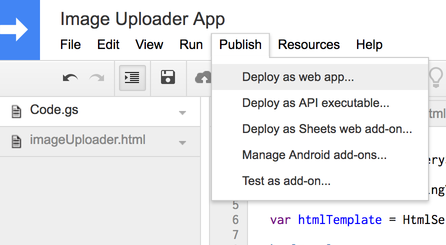
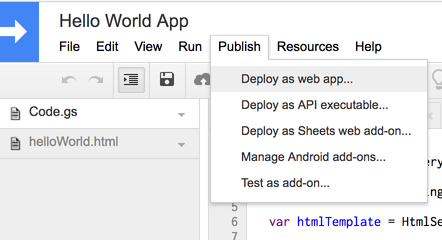
Review comment changes

diff --git a/_posts/2017-02-07-building-web-app-using-google-sheet.md b/_posts/2017-02-07-building-web-app-using-google-sheet.md
@@ -12,7 +12,8 @@ I am sure we all use and love Google Sheets. But I think very few know that we c
 
 ## Background
 
-At [honestbee](https://honestbee.sg), we recently wanted to collect data from our partners, who are not tech savvy. So, we created a simple spreadsheet for them to be able to add their data. There can be no argument about spreadsheet being the most simplest way of collecting data without any hassle. But, the data we were collecting also had images. A usual way of collecting images would be to ask the partners to zip everything and name the image files same as the key column in the excel. But as I said, they are not tech savvy and this process is prone to errors. So, we needed a way for them to upload images so that it gets stored directly on our servers. All this, without them leaving the comfort of Google spreadsheet
+At [honestbee](https://honestbee.sg), we recently wanted to collect data from our partners, who are not always tech savvy
+. So, we created a Google spreadsheet for them to be able to add their data. There can be no argument about spreadsheet being the simplest way of collecting data without any hassle. But, the data we were collecting also had images. A usual way of collecting images would be to ask the partners to zip everything and name the image files same as the key column in the excel. But as I said, they are not tech savvy and this process is prone to errors. So, we needed a way for them to upload images so that it gets stored directly on our servers. All this, without them leaving the comfort of Google spreadsheet
 
 ## App Scripts
 
@@ -26,9 +27,9 @@ Start by opening the script editor from Google Sheets as shown below
 
 You start with a `Code.gs` file. `.gs` stands for google script.
 
-When you make your web application live using Google cloud, it will call `doGet()` method in your `Code.gs` script. That would be your entry point.
+Once deployed to Google cloud, the `doGet()` method in your `Code.gs` script will be your entry point.
 
-`doGet()` for GET request and `doPost()` for POST request.
+Do note that `doGet()` will be called for GET request and `doPost()` for POST request.
 
 So, lets write some code,
 
@@ -37,16 +38,16 @@ function doGet(e) {
   var queryString = e.queryString;
 }
 ```
-You also get all the query string passed in the URL. Do note that the queryString you get is a complete string. You will need to parse it in order to get `key=value` format.
+You also get all the query string passed in the URL. Do note that the queryString you get is a complete string. You will need to parse it in order to get `key=value` pairs.
 
 ## HTML file
 
 The output of the `doGet()` can be a string, json etc. But it would be great if we can show a real html page. For that, create an `.html` file using the `File > New` in the menu
 
-Lets say you name your file `imageUploader.html`. Then, to render this html file, in your `doGet()` you will do,
+Lets say you name your file `helloWorld.html`. Then, to render this html file, in your `doGet()` you will do,
 
 ```
-var htmlTemplate = HtmlService.createTemplateFromFile('imageUploader');
+var htmlTemplate = HtmlService.createTemplateFromFile('helloWorld');
 var htmlOutput = htmlTemplate.evaluate().setSandboxMode(HtmlService.SandboxMode.IFRAME);
 return htmlOutput;
 ```
@@ -63,7 +64,7 @@ function doGet(e) {
 
   var name = getQueryStringValue(queryString, "name")
 
-  var htmlTemplate = HtmlService.createTemplateFromFile('imageUploader');
+  var htmlTemplate = HtmlService.createTemplateFromFile('helloWorld');
 
   htmlTemplate.qsName = name; //setting a variable in html template using the query string value
 
@@ -105,7 +106,7 @@ And my HTML code
 </html>
 ```
 
-The cool part is, you can pass the variables from google script to html file.
+The cool part to highlight above is the fact that we can pass the variables from the google script to our html template.
 
 Lets publish it!
 
@@ -120,6 +121,8 @@ You need to set the following
 * **Execute the app as**: Since this app will be running inside the Google Sheets context, you need to specify under what user this app runs. It can be either you (the developer) or the user who is accessing the sheet.
 
 * **Access**: Finally, you can also restrict who can access this web app. Options are `Only myself` and `Anyone`. If you choose to execute the app as `Me` then you also get the third option here, which is `Anyone, even anonymous`. Since its your user, people can use it without having to authenticate with Google.
+
+> Please read every thing very carefully before hitting deploy
 
 Hit deploy!
 
@@ -156,6 +159,6 @@ if(google && google.script){
 
 ## Summary
 
-Since you can do HTML and Javascript, you have endless possibilities here. With powerful Google Sheets API and its integration with Google cloud hosting, you can build a simple HTML web app with Google Sheets as your database.
+Since you can do HTML and Javascript, you have endless possibilities here. With powerful Google Sheets API and its integration with Google cloud hosting, you can build a simple web app with Google Sheets as your database. This would be perfect for testing out MVPs at no cost at all :)
 
 Go try it out :)
